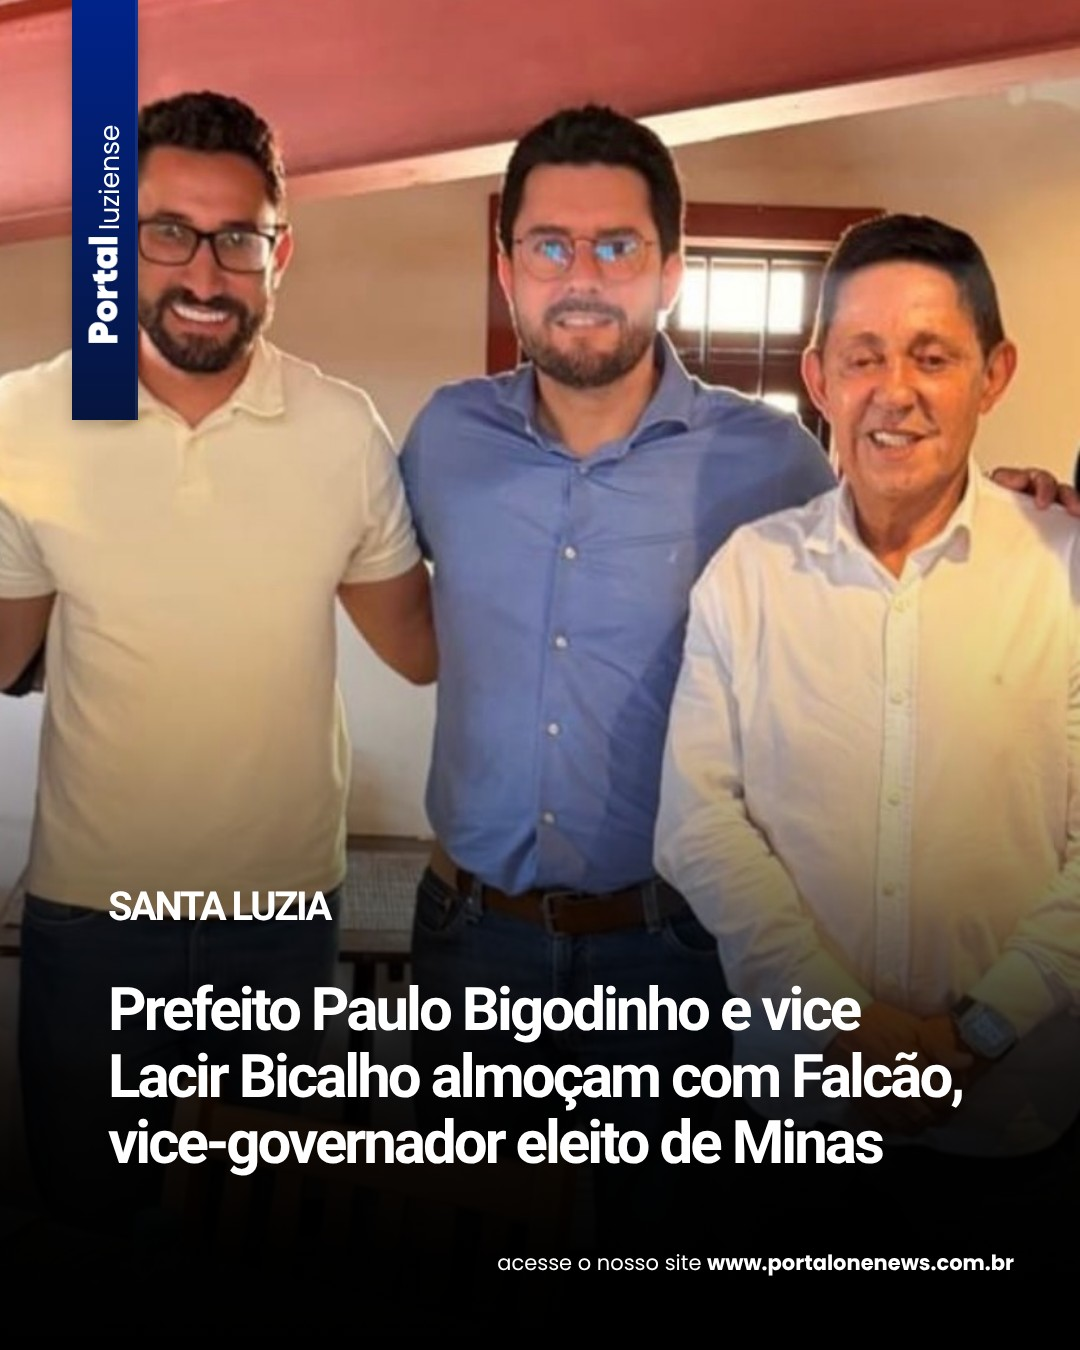
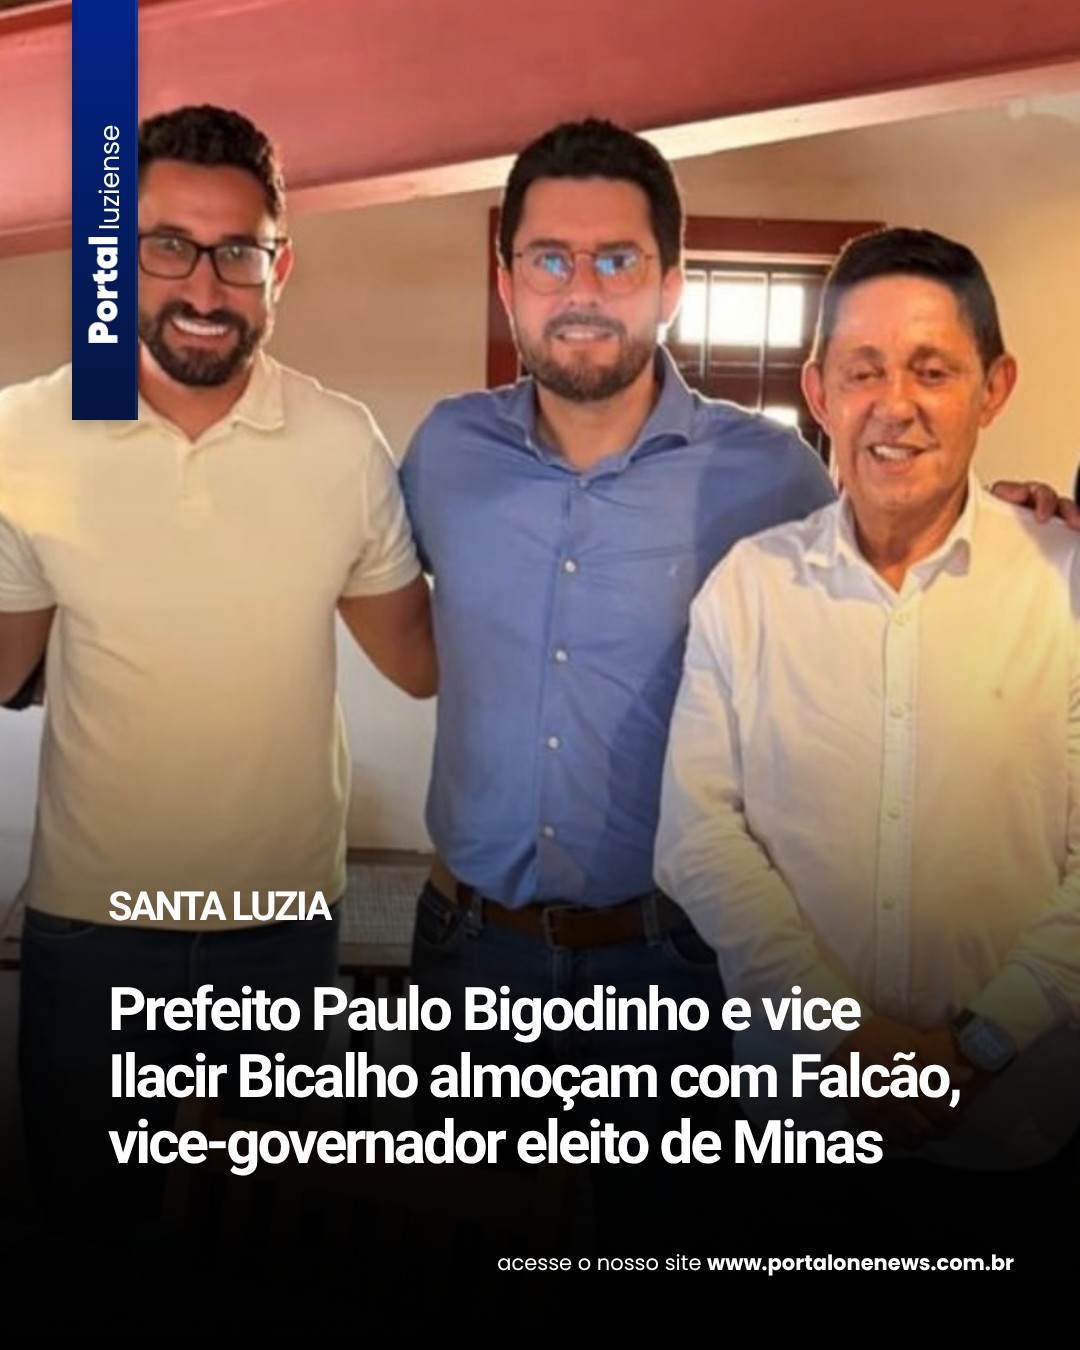
Correção: Ilacir Bicalho (223300_israel), arte e site

diff --git a/REGRAS.md b/REGRAS.md
@@ -142,7 +142,7 @@
   - 17/11/2026 ~11h40: nota da Secretaria de Saúde de Santa Luzia negando demissão de médicos da atenção primária (resposta ao vereador Nandinho; foto UBS Catumbi; id `113600_israel`): site + Instagram Luziense **com a nota na íntegra também no Instagram (exceção aberta pelo Israel)**, publicada depois do Reels do Nandinho (`114000_israel`). **Não repetir** (só fato novo).
   - 17/11/2026 ~11h50: presidente da Câmara de Santa Luzia, Gleison Jones, colhe assinaturas para CPI da Saúde (insulinas/almoxarifado, contrato dos médicos, salários atrasados; contrato emergencial da atenção primária acabou e não há licitação) (foto dele; id `115000_israel`) e Câmara diz que a Secretaria de Saúde confirmou casos de sarna humana em Santa Luzia; vereador Paulo Cabeção diz ter casos na família (foto dele; id `115500_israel`): site + Instagram Luziense, pelo Windsor, sem collab. **Não repetir** (só fato novo: assinaturas/instalação da CPI, nota oficial da Secretaria).
   - 17/11/2026 ~12h23: **Natal Iluminado (`160800_israel`) liberado pelo Israel e publicado** (site + Instagram Luziense). Não repetir.
-  - 17/11/2026 ~22h35: prefeito Paulo Bigodinho e vice Lacir Bicalho almoçam com o vice-governador eleito Luiz Eduardo Falcão (foto do Instagram do vice; id `223300_israel`): site + Instagram Luziense, pelo Windsor, sem collab. **Não repetir** (só fato novo: anúncio concreto de parceria/investimento).
+  - 17/11/2026 ~22h35: prefeito Paulo Bigodinho e vice Ilacir Bicalho almoçam com o vice-governador eleito Luiz Eduardo Falcão (foto do Instagram do vice; id `223300_israel`): site + Instagram Luziense, pelo Windsor, sem collab. Correção do Israel: o vice é **ILACIR Bicalho** (não Lacir); o primeiro post foi apagado por ele e repostado corrigido. **Não repetir** (só fato novo: anúncio concreto de parceria/investimento).
   - O fundo desfocado com o vídeo no meio **só** quando o vídeo for horizontal/quadrado ou quando ele pedir (foi o caso de Jacobina, `videos/2026-11-14/1830_jacobina_viralizou.mp4`).
   - Item que o Israel manda e que a trava barraria por tema parecido (fato novo): marque `"pedido_israel": true` no lote (só o link igual barra).
   - 10/11/2026 12h: laudo do caso Beatriz Vitória (Jaboticatubas, "enterrada viva") já saiu no Instagram e no site a pedido dele. **Não repetir** se aparecer em outro veículo.
